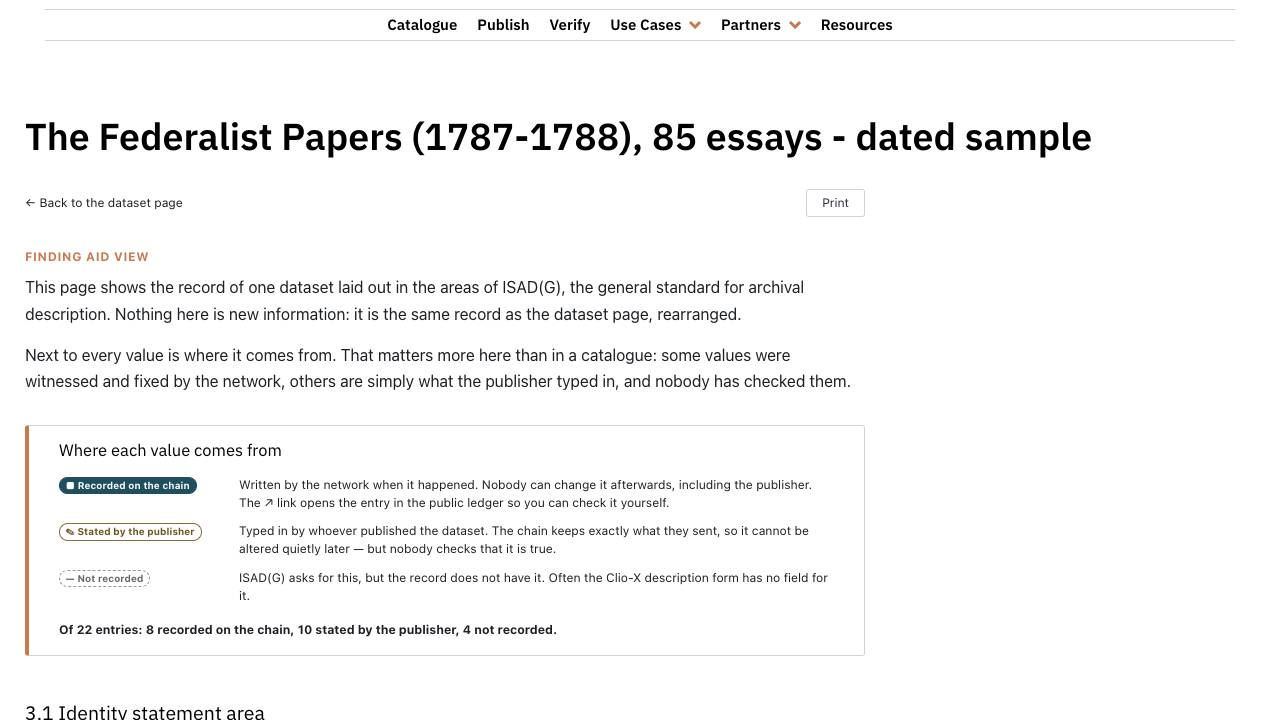
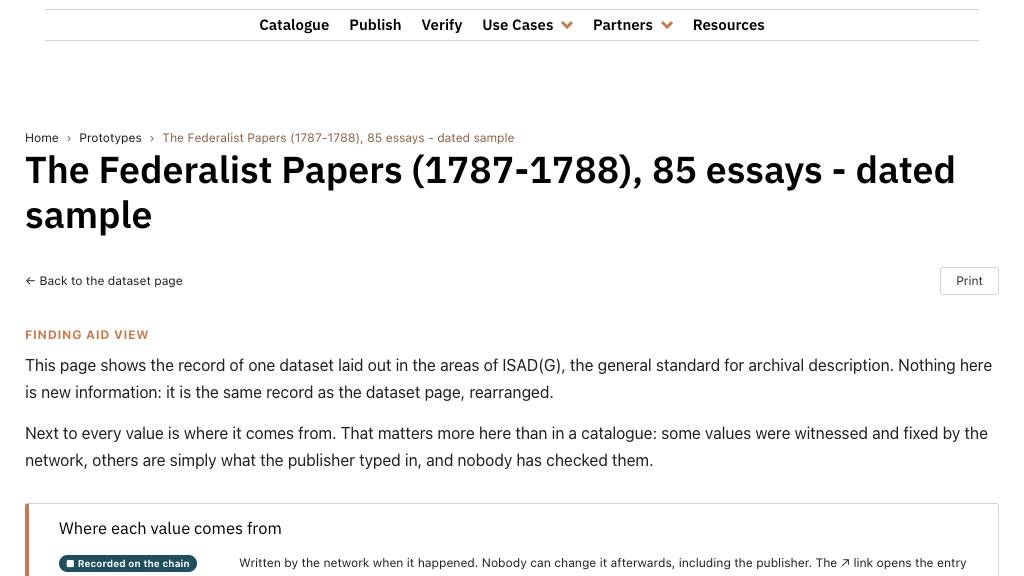
Open asset, profile and finding-aid pages under next dev
The static export builds only the '_' page for these routes and the
Cloudflare Worker serves it for every id (242e0054). next dev has no
Worker, so every asset page answered 404 locally, including the Fig. 1
URL that the paper's README tells readers to open. In development the
pages are now rendered on request; the export is unchanged.

Changed region(s): [[0.0, 0.1562, 0.9688, 1.0], [0.0625, 0.0, 0.9375, 0.0625], [0.9375, 0.4688, 0.9688, 0.5]]

diff --git a/src/pages/asset/[did]/index.tsx b/src/pages/asset/[did]/index.tsx
@@ -14,8 +14,13 @@ export default function PageAssetDetails(): ReactElement {
   )
 }
 
+// [local patch] The static export builds only the '_' page and the Cloudflare
+// Worker serves it for every id. `next dev` has no Worker, so render on request there.
 export async function getStaticPaths() {
-  return { paths: [{ params: { did: '_' } }], fallback: false }
+  return {
+    paths: [{ params: { did: '_' } }],
+    fallback: process.env.NODE_ENV === 'development' ? 'blocking' : false
+  }
 }
 
 export async function getStaticProps() {

diff --git a/src/experiment/finding-aid/Page.tsx b/src/experiment/finding-aid/Page.tsx
@@ -41,8 +41,13 @@ export default function PageFindingAid(): ReactElement {
   )
 }
 
+// [local patch] The static export builds only the '_' page and the Cloudflare
+// Worker serves it for every id. `next dev` has no Worker, so render on request there.
 export async function getStaticPaths() {
-  return { paths: [{ params: { did: '_' } }], fallback: false }
+  return {
+    paths: [{ params: { did: '_' } }],
+    fallback: process.env.NODE_ENV === 'development' ? 'blocking' : false
+  }
 }
 
 export async function getStaticProps() {

diff --git a/src/pages/asset/[did]/edit.tsx b/src/pages/asset/[did]/edit.tsx
@@ -14,8 +14,13 @@ export default function PageEditAsset(): ReactElement {
   )
 }
 
+// [local patch] The static export builds only the '_' page and the Cloudflare
+// Worker serves it for every id. `next dev` has no Worker, so render on request there.
 export async function getStaticPaths() {
-  return { paths: [{ params: { did: '_' } }], fallback: false }
+  return {
+    paths: [{ params: { did: '_' } }],
+    fallback: process.env.NODE_ENV === 'development' ? 'blocking' : false
+  }
 }
 
 export async function getStaticProps() {

diff --git a/src/pages/profile/[account].tsx b/src/pages/profile/[account].tsx
@@ -2,8 +2,13 @@ import PageProfile from '.'
 
 export default PageProfile
 
+// [local patch] The static export builds only the '_' page and the Cloudflare
+// Worker serves it for every id. `next dev` has no Worker, so render on request there.
 export async function getStaticPaths() {
-  return { paths: [{ params: { account: '_' } }], fallback: false }
+  return {
+    paths: [{ params: { account: '_' } }],
+    fallback: process.env.NODE_ENV === 'development' ? 'blocking' : false
+  }
 }
 
 export async function getStaticProps() {
